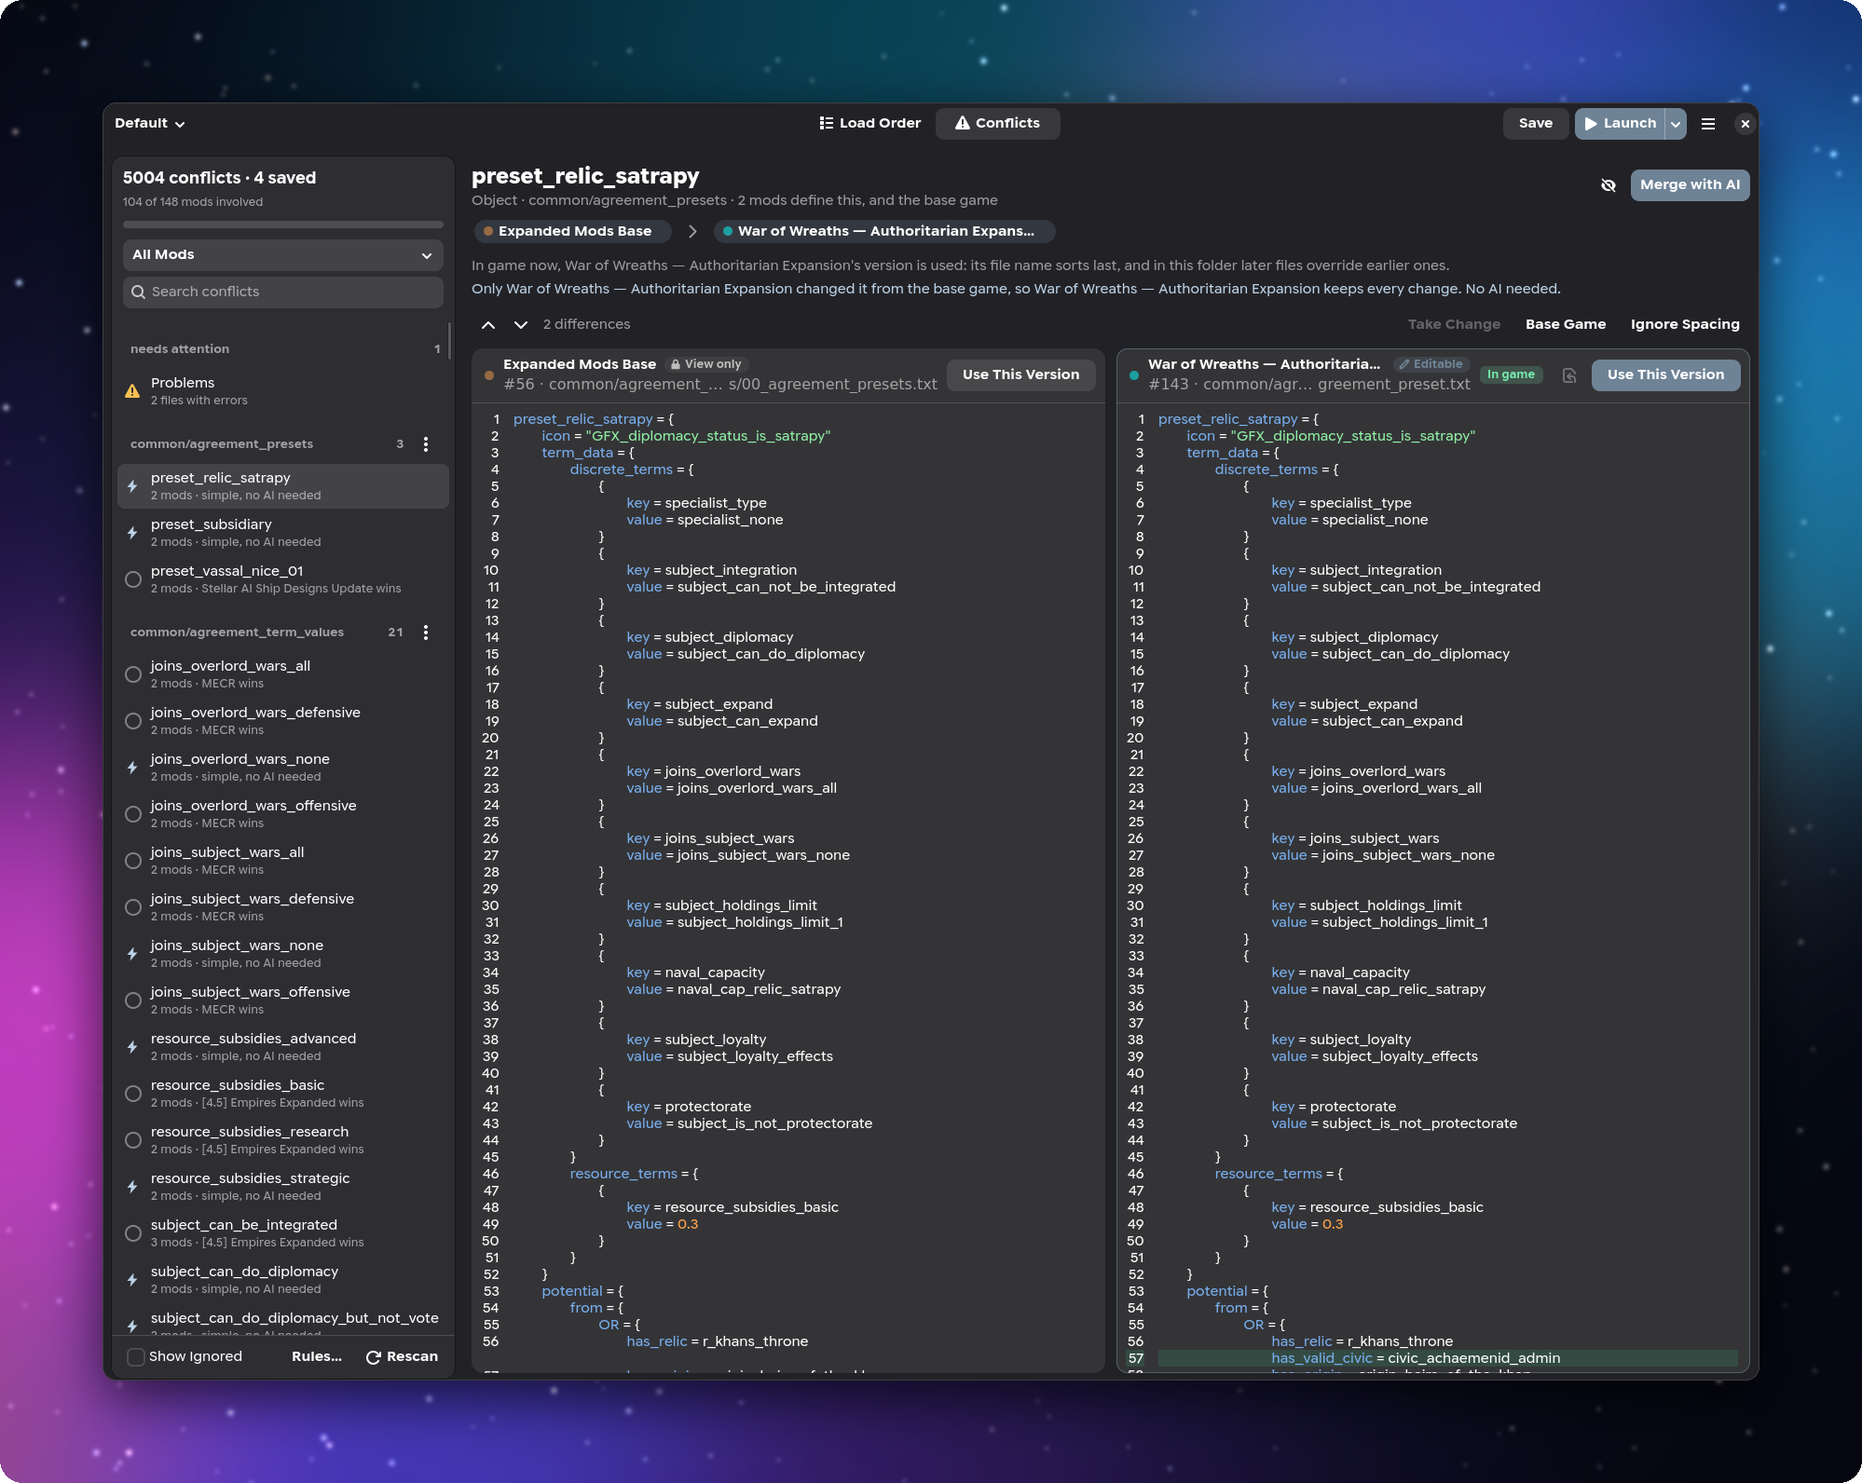
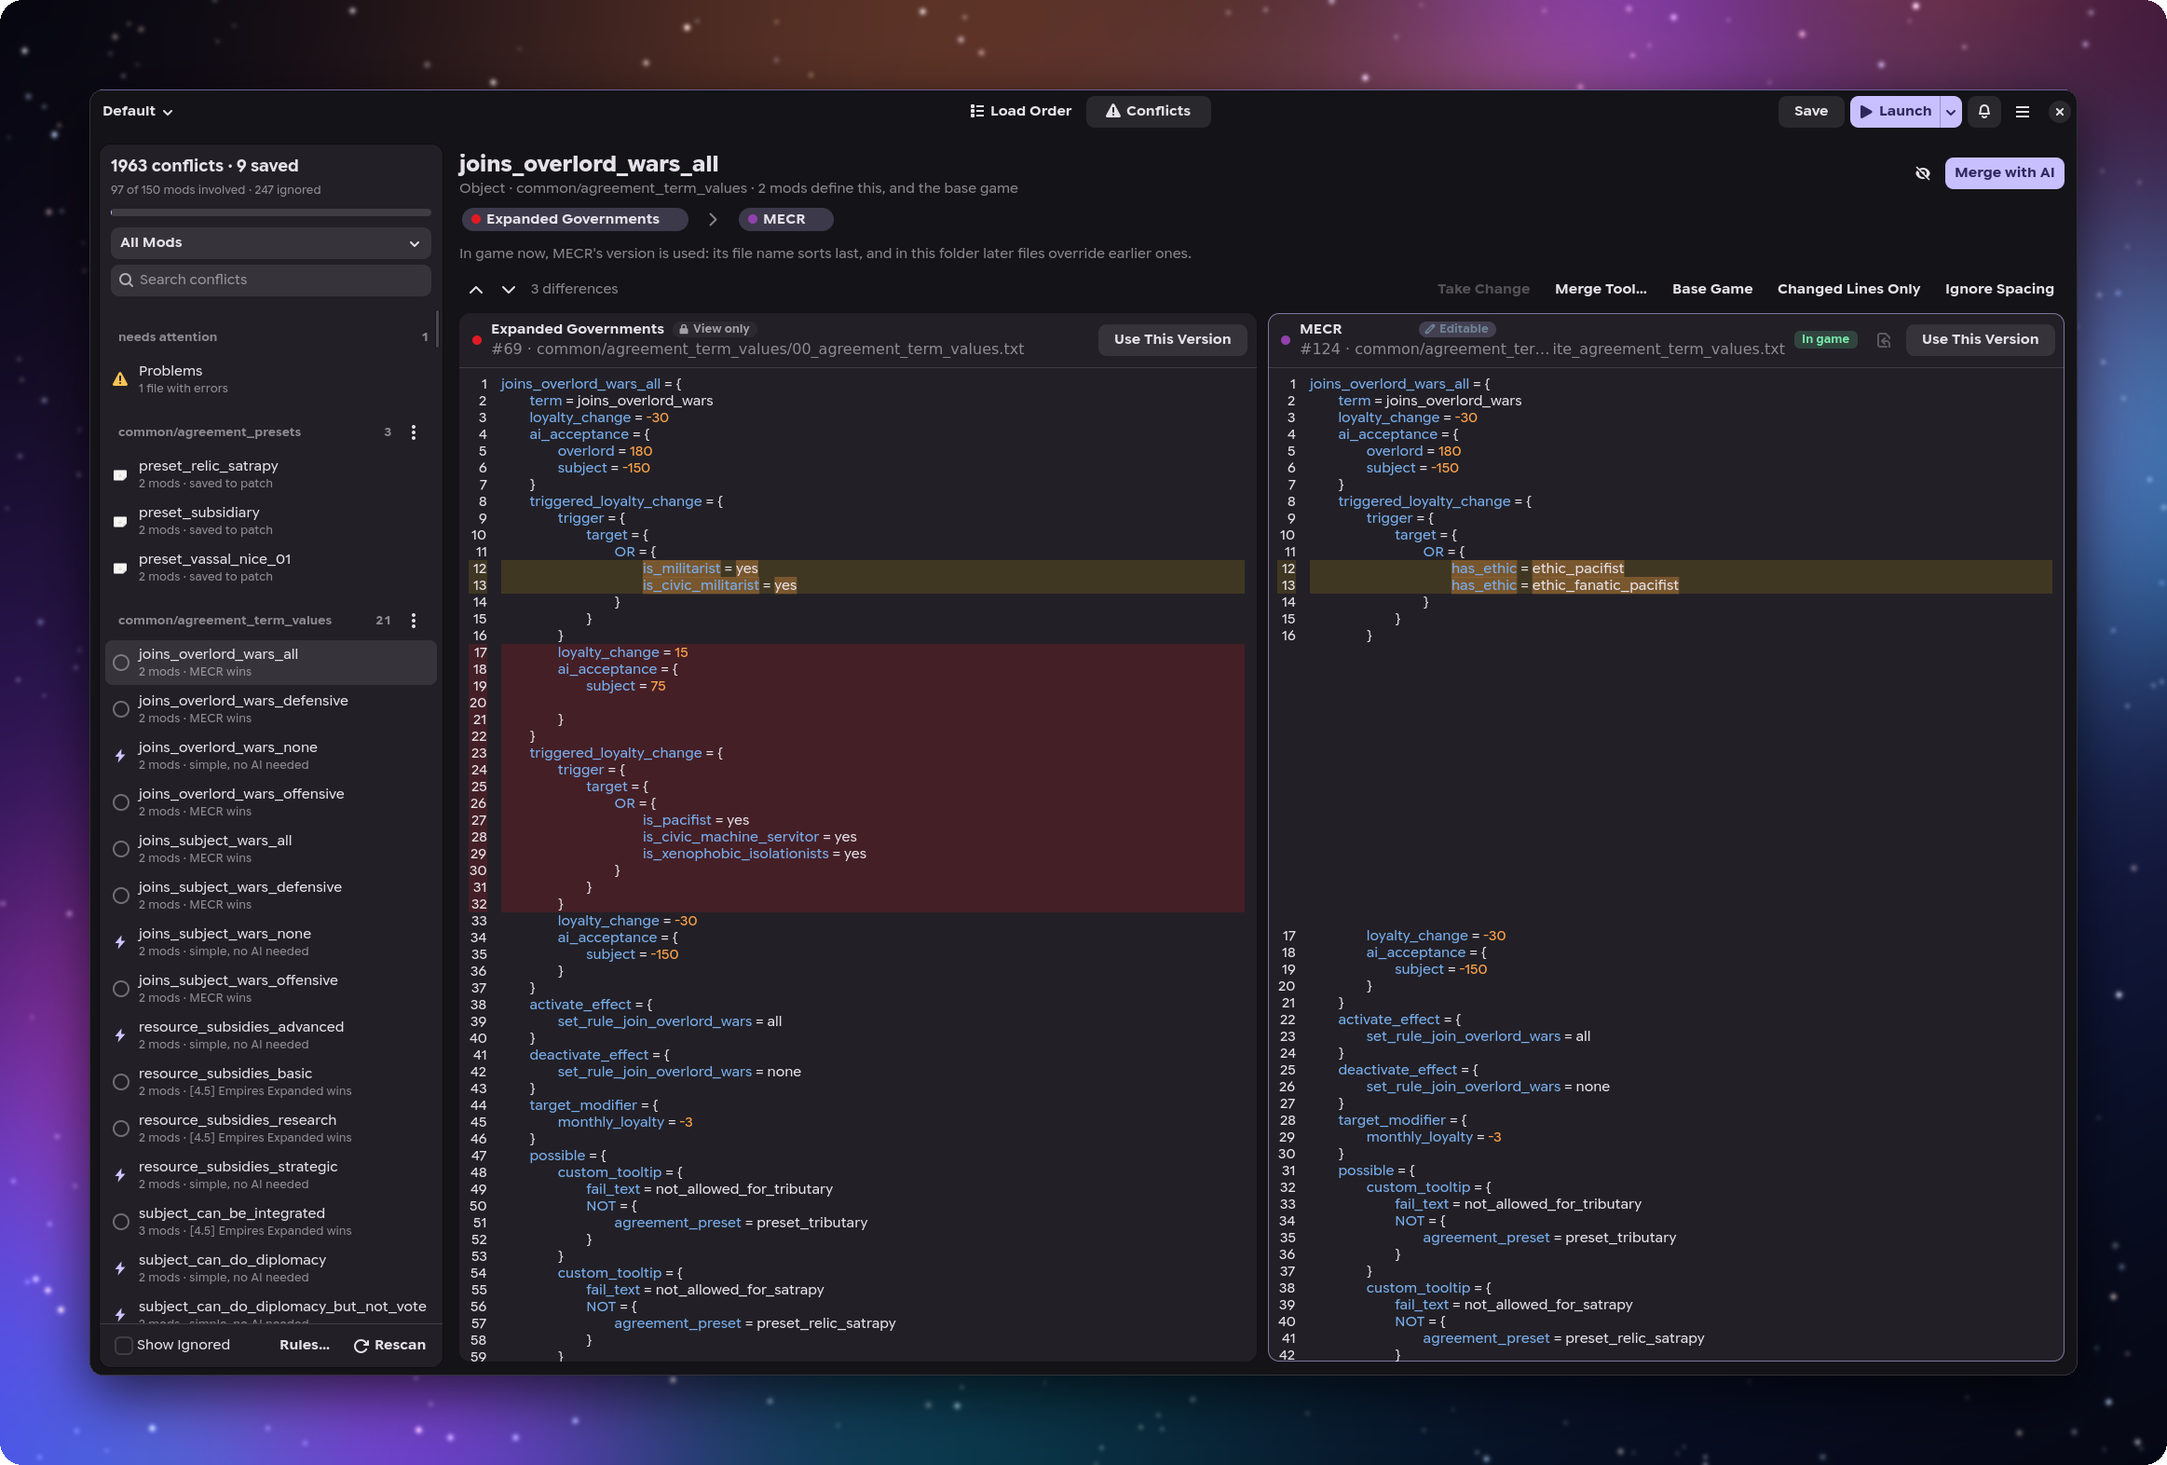
Update README screenshots and features (#145)
* Update README screenshots

* Bring the README up to date with 0.9.0

Describe the new screenshots, and the features added since 0.3.10:
the health strip and sidebar, search filters, campaigns, freezing,
Find the Crashing Mod, conflict tools and shortcuts, a merged patch
per collection, notifications, diagnostics and the multiplayer check.

* Rewrite the README in a plainer voice

Lead with why the app exists and who it isn't for, replace the emoji
feature bullets with plain ones, and describe the load order and
conflict pages with examples instead of lists of feature names.

* Refine README content for clarity and detail

Updated text for clarity and improved readability in the README.

* Tidy a few README phrases

---------

Changed region(s): [[0.0, 0.0, 1.0, 1.0]]

diff --git a/README.md b/README.md
@@ -4,28 +4,30 @@
 
 # DrukhalManager
 
-**A native Linux mod manager for Stellaris, with AI-assisted conflict merging.**
+A Stellaris mod manager for Linux that can merge conflicting mods with AI.
 
 [![Latest release](https://img.shields.io/github/v/release/Dukko/DrukhalManager?label=release&color=4a86cf)](https://github.com/Dukko/DrukhalManager/releases/latest)
 [![CI](https://github.com/Dukko/DrukhalManager/actions/workflows/ci.yml/badge.svg)](https://github.com/Dukko/DrukhalManager/actions/workflows/ci.yml)
 [![Flatpak](https://img.shields.io/badge/install-Flatpak-4a90d9?logo=flatpak&logoColor=white)](#installing)
 [![License: MIT](https://img.shields.io/badge/license-MIT-green)](LICENSE)
 
-Built with Rust, GTK 4 and libadwaita · A fork of [Irony Mod Manager](https://github.com/bcssov/IronyModManager)
-
-<img src="docs/screenshots/hero.png" alt="The load order after Smart Sort: graphics mods first, each with its thumbnail, game version and tags, and the Smart Sort button in the header" width="860">
+<img src="docs/screenshots/hero.png" alt="The load order, grouped by category, with the views and categories in a sidebar" width="860">
 
 </div>
 
-## Why DrukhalManager?
+I play Stellaris on Linux with around 150 mods, and two things kept messing up my evenings: working out which mods overwrite each other, and fixing the load order after every Steam update. [Irony Mod Manager](https://github.com/bcssov/IronyModManager) solves the first one well, but I wanted something native to my desktop that could also do the annoying and boring parts of merging for me. DrukhalManager is an opinionated fork of Irony, rewritten in Rust and GTK 4.
 
-- 🐧 **Feels at home on Linux.** A native GTK 4 app that follows your desktop's theme, installed as a Flatpak that keeps itself up to date.
-- ⚔ **Sees every conflict.** Files and objects that more than one mod changes, side by side, with the version the game actually uses marked and the reason it wins.
-- 🤖 **Merges them for you.** Send two conflicting versions, plus the base game's, to Claude or any OpenAI-compatible model, and save the result to a patch mod that loads last.
-- ⚡ **Skips the AI when it can.** Conflicts where only one mod changed anything are merged directly, at no cost.
-- 🧹 **Hides the noise.** Ignore one conflict, a whole folder, or anything matching a rule like `gfx/**`.
-- 🗂 **Keeps your load orders.** Named collections that sync to Paradox Launcher playsets, with Workshop collection import, dependency checks and descriptor repair.
-- 🧭 **Sorts them for you.** Smart Sort orders your mods the way the Stellaris community's load order guides suggest, keeping sub-mods below their mods and every mod after its dependencies.
+It does the usual mod manager things (load orders, collections, Paradox Launcher playsets) and a few **less usual** ones:
+
+* Shows every file and object that more than one mod changes, side by side, and tells you which version the game ends up using and why.
+* Merges two conflicting versions with Claude or any OpenAI-compatible model, using the base game's version as a reference, and saves the result to a patch mod that loads last. Your mods are never touched.
+* Merges the easy ones without AI: if only one mod actually changed something, let's not burn computing power for no reason.
+* Sorts your load order the way the community guides suggest, with sub-mods under the mod they belong to.
+* Remembers which mods each campaign was played with, and can freeze a collection so a Workshop update doesn't break a game in progress (like Irony's collection merge, but faster).
+
+### Should you use it?
+
+Probably not if you play anything other than Stellaris; Irony supports several Paradox games and has years more testing behind it. AI merging also isn't free or magic. Each merge is an API call you pay for (or a local model you run), and you should read what comes back before saving it. DrukhalManager shows you a cost estimate and the full result, but you still need to know what's going on and not mash accept.
 
 ## Installing
 
@@ -69,40 +71,46 @@ makepkg -si
 
 This installs `drukhal-manager` with a desktop entry and icon.
 
-## A tour
+## Load order
 
-### 🗂 Your load order
+Drag mods around, type a position into the number, or press **Smart Sort**. The strip above the list counts what needs looking at, like mods that haven't been updated for your game version or mods loading before something they depend on, and each count has a button that shows you which ones.
 
-Drag mods into order, type a position, or let DrukhalManager sort them. Thumbnails come from each mod's folder, or from its Workshop preview. Each mod is marked when it turns off achievements, is waiting on a Steam update, or was unsubscribed in Steam.
+Smart Sort follows the order the community guides use: unofficial patches (`~`) first, then graphics, flavor, shipsets, galaxy generation, gameplay, large overhauls, compatibility patches, UI mods, UI patches, and universal patches (`!`) last. It decides where a mod goes from its name, its dependencies and the folders it ships, because Workshop tags are often wrong. You get a preview before anything moves, and if it puts a mod in the wrong place you can move it and it'll remember.
 
-- **Smart Sort** groups your mods into sections, following the community's load order guides: unofficial patches (`~`) first, then graphics, flavor, shipsets, galaxy generation, gameplay and large overhauls, then compatibility patches, UI mods such as UI Overhaul Dynamic and their patches, and universal patches (`!`) last. Sub-mods go directly below the mod they need, and every mod still loads after its dependencies. A mod's section comes from its name, its dependencies and the folders it ships, not its often-wrong tags. A preview shows where each mod goes and why, and you can move any mod to another section; your choice is remembered. Applying it can be undone.
-- **Other sorts:** **Sort A–Z, Dependencies First** (in Smart Sort's drop-down) sorts by name, and **Sort by Dependencies** appears when a mod loads before one it needs.
-- **Collections:** several named load orders, switched from the header, each synced to its own Paradox Launcher playset. Import a launcher playset (Irony's, for example), a shared file, or a **Workshop collection** from its link. Mods you don't have yet are listed with links to subscribe.
-- **Names and notes:** rename a mod, or write yourself a note on it, such as why it sits where it does. Notes show on the mod's row and in its details, search finds both, and a shared collection file can carry your notes.
-- **Checks:** warns when a mod loads before one it depends on, and notes missing dependencies and mods made for an older game version.
-- **Descriptor repair:** fixes `.mod` files that point at folders that no longer exist, and removes those whose mod is gone. Everything is backed up first.
-- **Reload** (F5) picks up mods subscribed or removed while the app is open, and **Merge into One Mod** copies a collection into a single local mod, the way the game would load it.
+The search box takes filters as well as names. `enabled:yes conflicts:yes` lists the enabled mods with conflicts, `source:local || giga` finds local mods or anything called giga, and `--` leaves things out. If you don't want to remember the syntax, the **Filters** button builds the filter for you.
 
-### ⚔ Conflicts, side by side
+Also on this page:
 
-<img src="docs/screenshots/conflicts-framed.png" alt="The Conflicts page: a sidebar of conflicts by folder, and two versions of one object side by side, the in-game one marked">
+* **Collections** are named load orders, each synced to its own Paradox Launcher playset. You can import a playset, a Workshop collection link, or a load order a friend pasted, and **Copy Load Order** gives you a numbered list with Workshop links to paste back.
+* **Notes** on a mod, for things like "keep this below UIOD or the outliner breaks". Search finds them.
+* **Freeze This Collection…** copies its Workshop mods into local ones, so you can finish a campaign on the versions you started with.
+* **Find the Crashing Mod…** turns off half your mods, has you launch the game, and keeps halving until it finds the one that crashes. Your load order is put back afterwards.
+* **Descriptor repair** fixes `.mod` files pointing at folders that no longer exist, after backing them up.
 
-Every file and object that more than one enabled mod changes is listed by folder, with a search and a filter by mod. Pick one to see two versions side by side, with the changed lines and words highlighted.
+## Conflicts
 
-- The version the game uses today is marked **In game**, with the reason: its file name sorts last, the folder keeps the first definition it reads, or the load order decides.
-- ⚡ **Simple** conflicts need no AI, because only one mod changed the object from the base game, or every mod ships the same version.
-- The left card is view only and the right one is editable, so you can adjust a version by hand. **Take Change** copies single differences across, and **Base Game** compares each version with the game's own instead.
+<img src="docs/screenshots/conflicts-framed.png" alt="The Conflicts page, with a list of conflicts on the left and two versions of one object side by side">
 
-### 🤖 Merging with AI
+Pick a conflict on the left and you get two versions next to each other with the differences highlighted. The one the game actually loads is marked **In game**, along with the reason: its file name sorts last, the folder keeps the first definition it reads, or it's simply later in the load order. Conflicts marked ⚡ are the simple kind, where only one mod changed anything or every mod ships the same thing.
 
-**Merge with AI** sends both versions, plus the base game's when it can be found, to the model you choose. The result stays on the left while the next mod's version slides in on the right, until one result is left to review and **Save to Patch**.
+The right-hand version is editable, so you can fix things by hand. **Take Change** copies a single difference across, **Changed Lines Only** hides the parts that match, and **Base Game** compares against the vanilla file instead. If you'd rather use Meld or KDiff3, **Merge Tool…** opens both versions there.
 
-- **Merge All** merges a whole folder, several objects at once, with an estimate of the calls and cost first. It works on folders of overridden files too, with one AI call per object the copies disagree on.
-- A result that comes back broken is sent back to the model once with the error, before it counts as failed.
-- **Overridden files** are split into their objects. Objects the copies agree on, or that only one mod changed, are combined directly, and the AI is only asked about real disagreements.
-- **Broken braces** are listed under **Problems**. **Fix…** repairs them automatically, and **Fix with AI** restores the intended nesting.
+Most of the noise in a big mod list is graphics and localisation files I usually don't care about. You can ignore one conflict, a folder, or a pattern like `gfx/**`, and the rule editor tells you how many conflicts each rule hides.
 
-Everything is saved to **DrukhalManager Merged Patch**, a local mod that loads last, with files named so its definitions win. Merges whose mods or the base game changed since are flagged as outdated, and your mods are never modified. The patch is backed up before each Merge All and before merges are removed, and **Merged Patch Backups…** in the main menu restores any of the last ten.
+| Shortcut | Does |
+| --- | --- |
+| Alt+Page Down / Alt+Page Up | Next / previous conflict |
+| Alt+Left / Alt+Right | Use the left / right version |
+| Alt+M | Merge with AI |
+| Alt+I | Ignore the conflict |
+
+## Merging with AI
+
+**Merge with AI** sends both versions, and the base game's when there is one, to the model you've picked in Preferences. With three or more mods it works through them one at a time, merging the result with the next mod's version until you're left with one to review. **Merge All** does a whole folder and tells you roughly how many calls and how much money that'll be before it starts.
+
+The model only ever sees the conflicting definitions, not your whole mod folder. When it returns something with broken syntax, it gets one more try with the error message before the merge counts as failed.
+
+Results go into a merged patch mod, one per collection, that loads last. If one of the mods or the game updates later, the merges that depended on it are flagged as outdated. The patch is backed up before every Merge All, and **Merged Patch Backups…** keeps the last ten.
 
 <table>
 <tr>
@@ -110,14 +118,18 @@ Everything is saved to **DrukhalManager Merged Patch**, a local mod that loads l
 <td width="50%"><img src="docs/screenshots/ignore-rules.png" alt="The Ignore Rules editor"></td>
 </tr>
 <tr>
-<td><b>Choose a provider</b>: Claude (<code>claude-opus-5-5</code>), OpenRouter, or a local server such as Ollama or LM Studio.</td>
-<td><b>Ignore rules</b> hide conflicts by path, like <code>gfx/**</code>, optionally only for an exact set of mods, with a live count of what each rule hides.</td>
+<td>Claude, OpenRouter, or a local server like Ollama or LM Studio.</td>
+<td>Ignore rules, with a count of what each one hides.</td>
 </tr>
 </table>
 
-Text boxes, such as the model's reasoning, merged results and the file editors, can be made taller or shorter by dragging the grip below them.
+API keys go in your system keyring. Without a keyring they're stored in a settings file only your user can read.
 
-API keys are kept in your system keyring, or in a settings file only you can read when there's no keyring. Merging sends only the conflicting definitions to the provider you choose.
+## When something goes wrong
+
+The bell in the header keeps every notification, so you can go back to one you missed. If you hit a bug, **Main Menu → Troubleshooting** copies a short report you can paste into an issue. It comes from a small log of scans, merges, AI calls and game launches, and never includes API keys, prompts or file contents.
+
+For multiplayer desyncs, **Multiplayer Check…** saves a report of your game and mod files. Swap reports with the other players and open theirs, and it lists the files that differ.
 
 ## Building
 
@@ -143,7 +155,7 @@ To install by hand elsewhere, copy `target/release/drukhal-manager` to your `PAT
 
 ## Credits
 
-DrukhalManager is a fork of [Irony Mod Manager](https://github.com/bcssov/IronyModManager) by Mario (bcssov), and wouldn't exist without it. Irony already ships a native Linux build with Proton support; DrukhalManager is a Rust and GTK alternative focused on AI-assisted merging. Irony's design and behaviour are the reference for this rewrite: its conflict solver, override rules, collections, load order checks and descriptor handling are the models for DrukhalManager's, and code ported from it is marked at the top of the relevant source files. Thank you, Mario.
+DrukhalManager is a fork of [Irony Mod Manager](https://github.com/bcssov/IronyModManager) by Mario (bcssov), and wouldn't exist without it. Irony already ships a native Linux build with Proton support; DrukhalManager is a Rust and GTK alternative focused on AI-assisted merging and QoL features I personally wanted. Irony's design and behaviour are the reference for this rewrite: its conflict solver, override rules, collections, load order checks and descriptor handling are the models for DrukhalManager's, and code ported from it is marked at the top of the relevant source files. Thank you, Mario.
 
 ### Built with AI assistance
 
